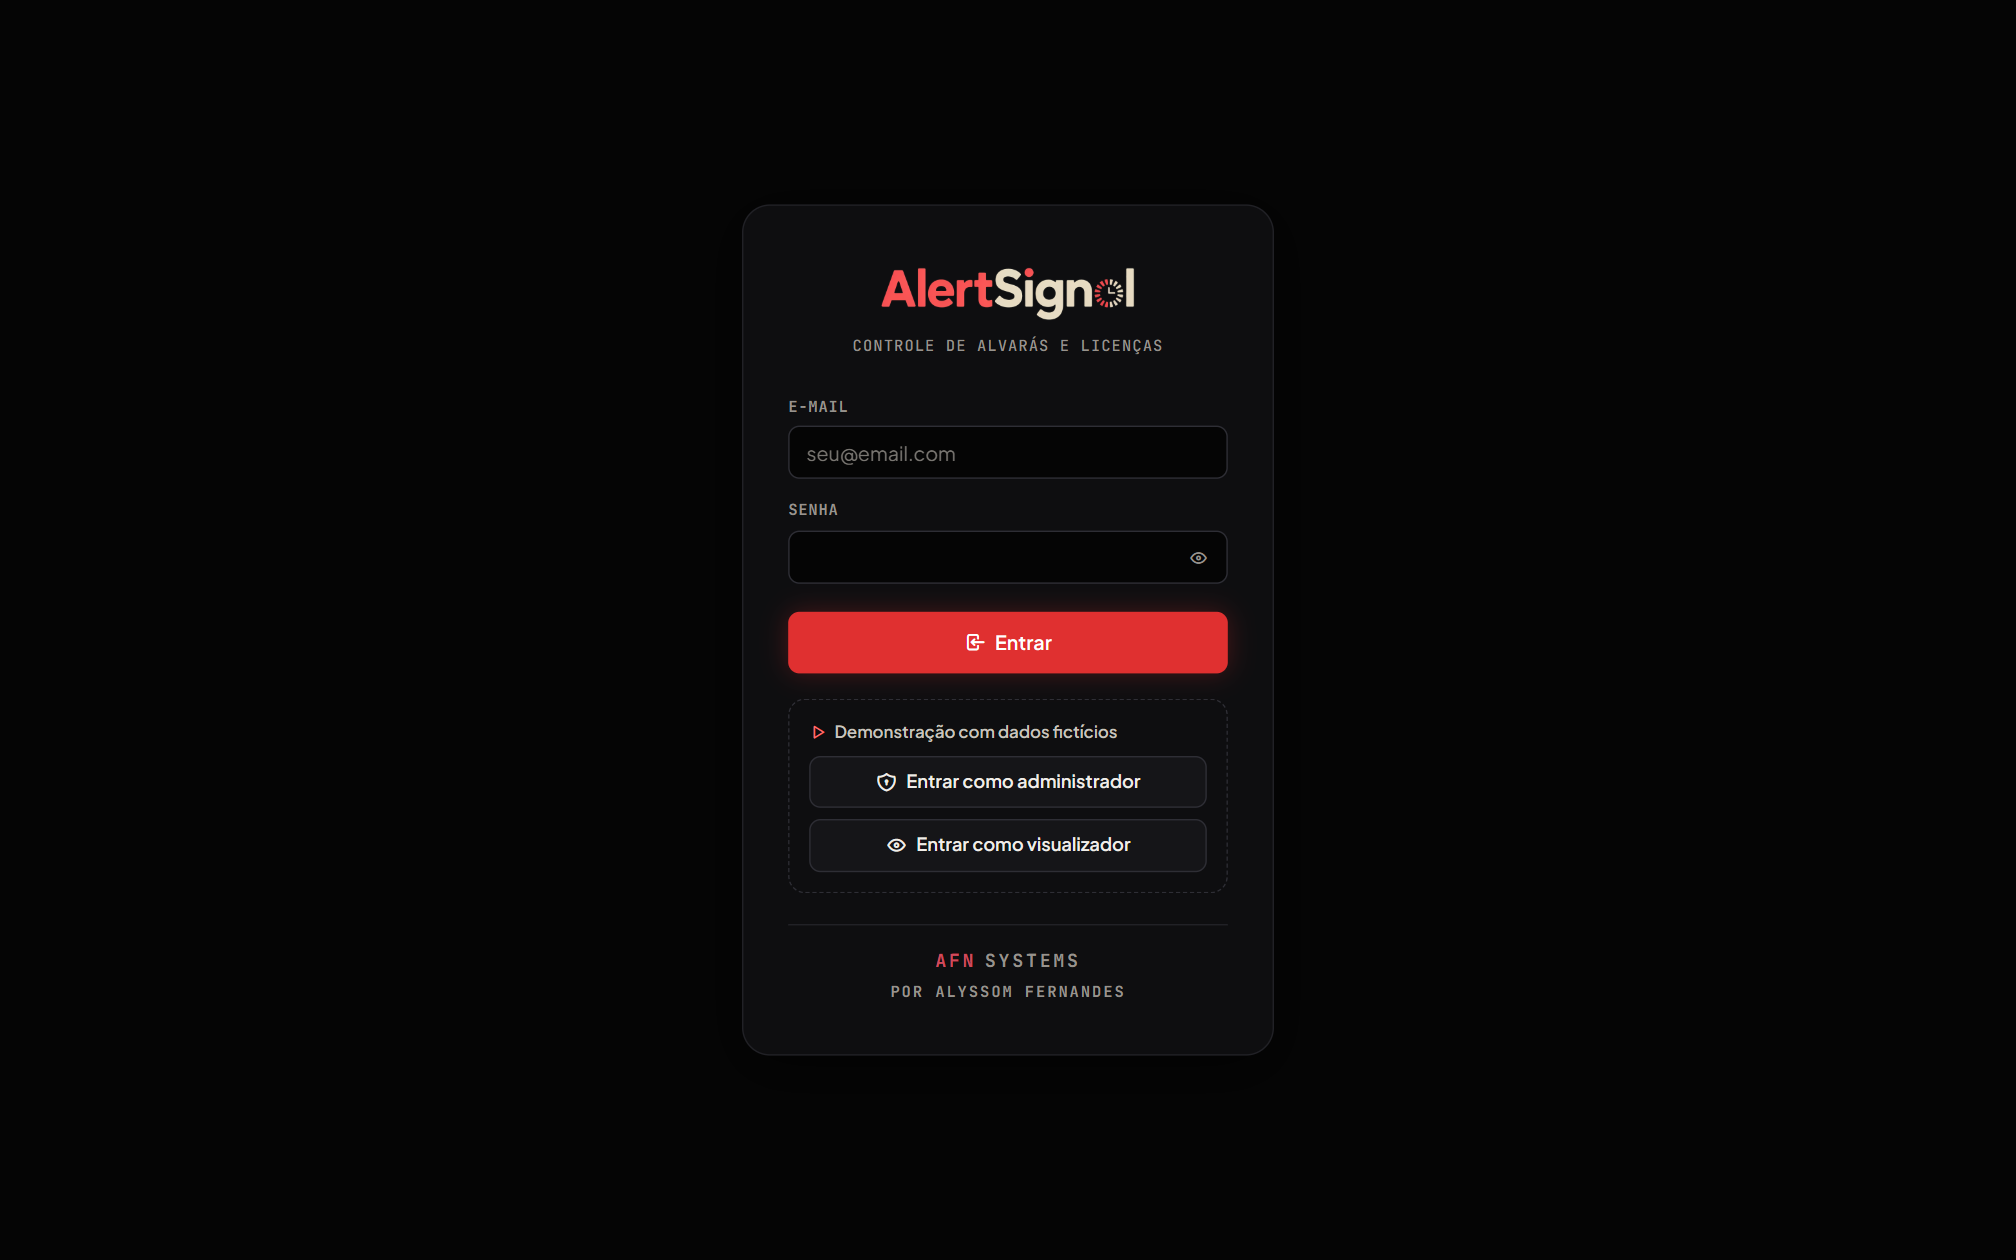
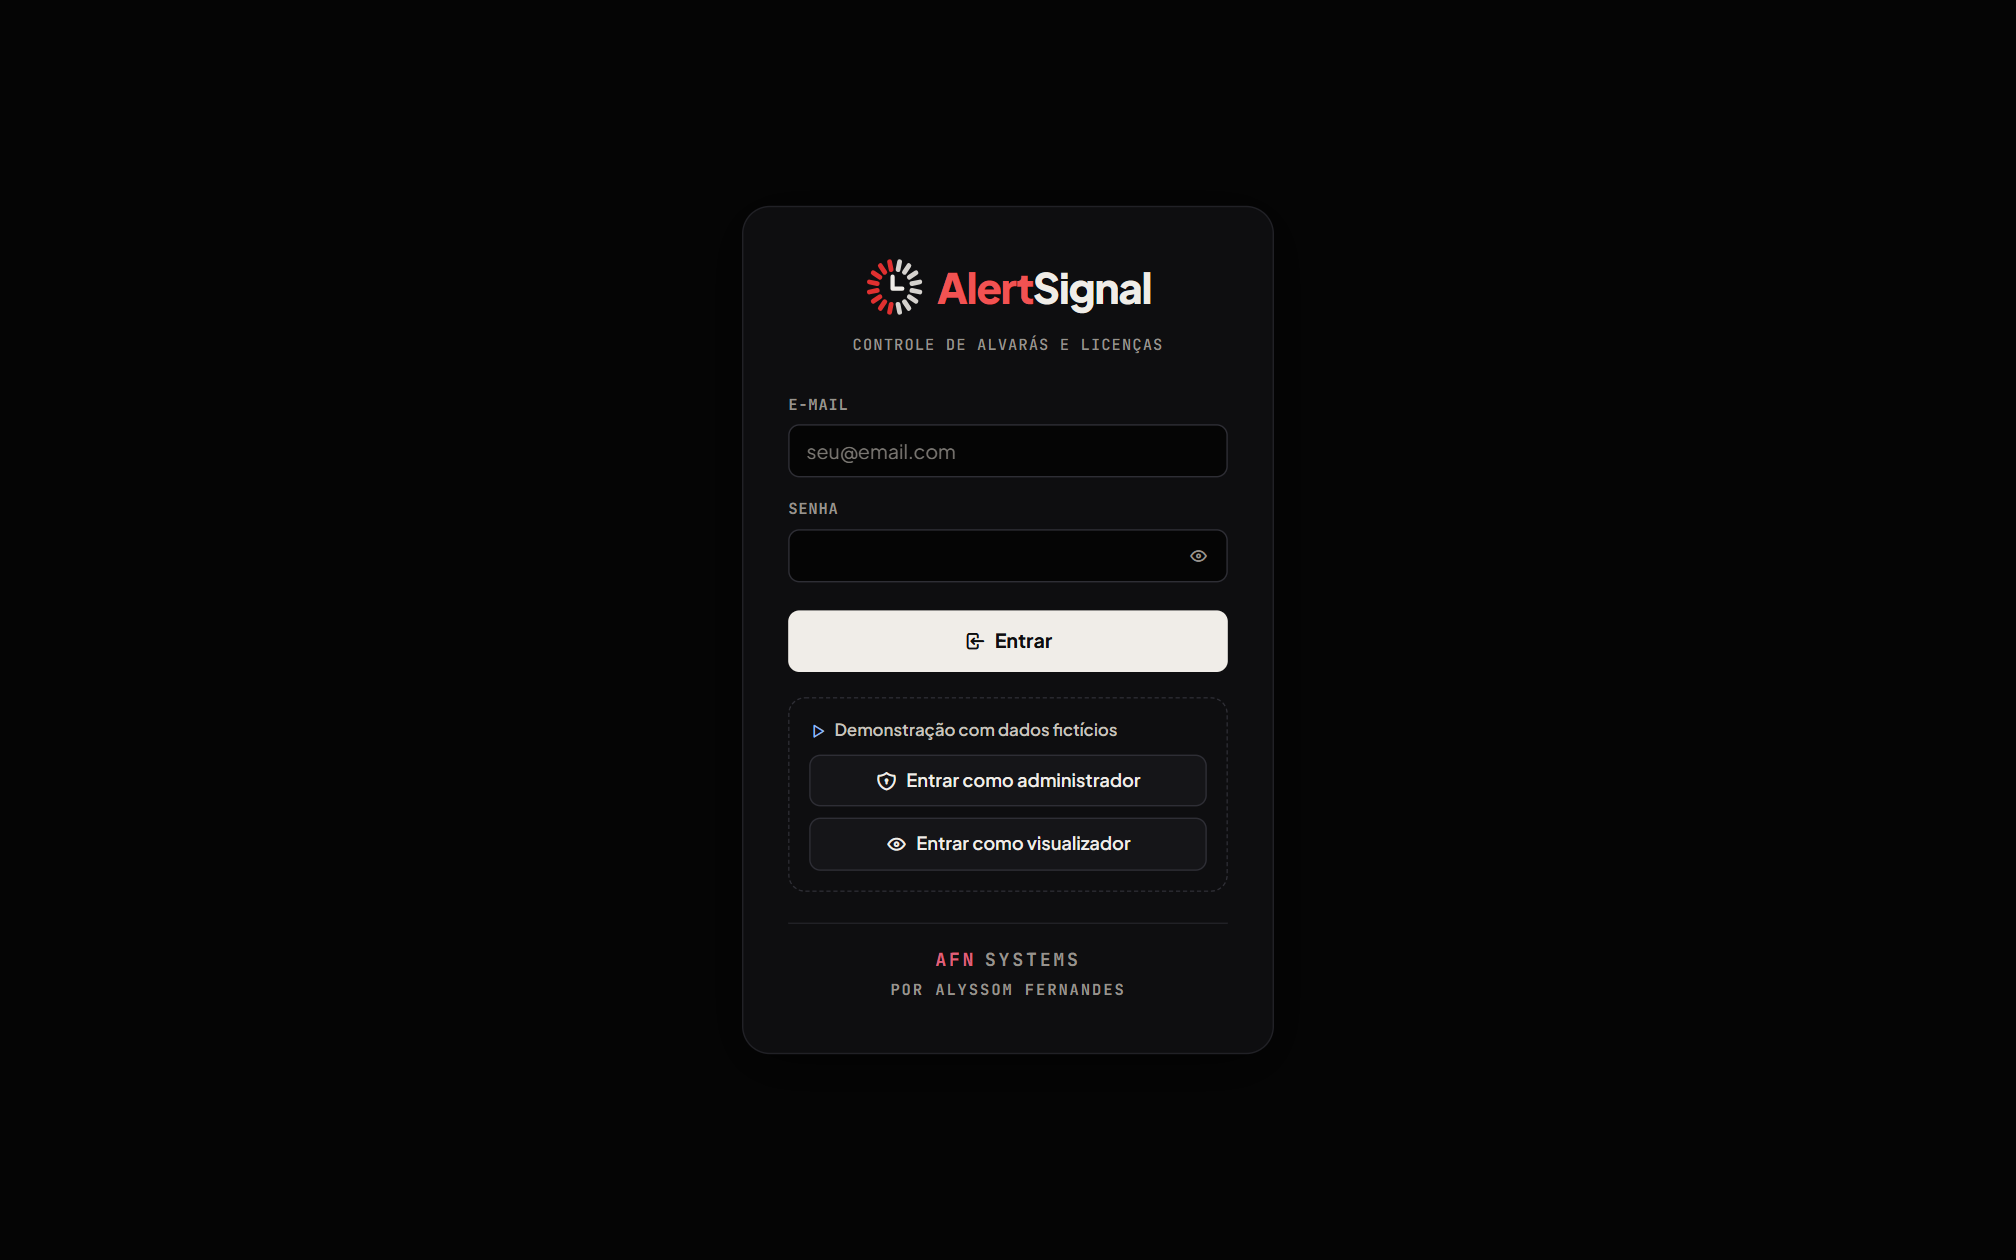
README, telas com a faixa de demonstração e higiene do repositório
- README em inglês e português: uso real sem senha publicada (.env.example,
  ADMIN_EMAIL/ADMIN_SENHA, senha aleatória na primeira execução), porta
  5001 do DEMONSTRACAO.bat explicada, Python 3.11+, HOST, bloqueio de
  entrada, cabeçalhos e exportação protegida, fontes e ícones locais.
- As nove imagens de docs/telas, a capa e a prévia de link foram geradas de
  novo com o visual novo e com a faixa "Demonstração com dados fictícios".
- .gitignore sem a pasta de ferramentas locais e com .idea, .vscode e
  .DS_Store.

diff --git a/README.pt-br.md b/README.pt-br.md
@@ -8,7 +8,7 @@ Ele substituiu uma planilha mantida à mão: roda numa máquina da empresa, sem
 nuvem, e guarda tudo num único arquivo SQLite.
 
 [![Testes](https://github.com/alyssom-fernandes/AlertSignal/actions/workflows/testes.yml/badge.svg)](https://github.com/alyssom-fernandes/AlertSignal/actions/workflows/testes.yml)
-![Python](https://img.shields.io/badge/Python-3.8+-3776AB?style=flat-square&logo=python&logoColor=white)
+![Python](https://img.shields.io/badge/Python-3.11+-3776AB?style=flat-square&logo=python&logoColor=white)
 ![Flask](https://img.shields.io/badge/Flask-3-000000?style=flat-square&logo=flask&logoColor=white)
 ![SQLite](https://img.shields.io/badge/SQLite-embutido-003B57?style=flat-square&logo=sqlite&logoColor=white)
 ![Tema](https://img.shields.io/badge/tema-claro_e_escuro-e03030?style=flat-square)
@@ -23,7 +23,7 @@ Este README também está em [inglês](README.md).
    pip install -r requirements.txt
    python app.py --demo
    ```
-   No Windows, basta dar duplo clique em `DEMONSTRACAO.bat`.
+   No Windows, basta dar duplo clique em `DEMONSTRACAO.bat`: ele abre o navegador sozinho, na porta 5001.
 2. Abra `http://localhost:5000` e clique em **Entrar como administrador**.
 3. Na visão geral, abra um documento em **Atenção urgente**, renove e veja a
    linha mudar de lugar e o histórico registrar quem fez.
@@ -32,7 +32,7 @@ Este README também está em [inglês](README.md).
 
 ## Telas
 
-Capturadas do modo demonstração.
+Capturadas do modo demonstração. A faixa azul no alto de cada tela avisa que os dados são fictícios.
 
 | Visão geral, tema escuro | Página da empresa, tema claro |
 |---|---|
@@ -59,6 +59,7 @@ Capturadas do modo demonstração.
 - **Gráfico dos vencimentos dos próximos 12 meses**, com dica ao passar o mouse e versão em tabela.
 - **Dois níveis de acesso.** Administradores alteram; visualizadores só consultam, e o servidor também bloqueia.
 - **Tema escuro e claro**, que segue o sistema na primeira visita, e layout para celular.
+- **Funciona sem internet.** Fontes e ícones são servidos pelo próprio sistema, sem carregar nada de terceiros.
 - **Modo demonstração** com dados fictícios, num banco separado.
 
 ---
@@ -67,7 +68,7 @@ Capturadas do modo demonstração.
 
 ### Requisitos
 
-- Python 3.8 ou superior
+- Python 3.11 ou superior (os testes rodam no 3.11 e no 3.13)
 
 ### Demonstração (dados fictícios)
 
@@ -76,18 +77,17 @@ pip install -r requirements.txt
 python app.py --demo
 ```
 
-Abra `http://localhost:5000` e use os botões **Entrar como administrador** ou **Entrar como visualizador**. A demonstração grava num `demo.db` separado, recriado a cada início, e não envia nenhum e-mail. No Windows, dá para usar o `DEMONSTRACAO.bat`.
+Abra `http://localhost:5000` e use os botões **Entrar como administrador** ou **Entrar como visualizador**. A demonstração grava num `demo.db` separado, recriado a cada início, e não envia nenhum e-mail. No Windows, o `DEMONSTRACAO.bat` faz o mesmo na porta 5001, para rodar ao lado de uma instalação real na 5000, e abre o navegador sozinho.
 
 ### Uso real
 
-1. Crie um arquivo `.env` na raiz do projeto:
-   ```
-   SECRET_KEY=uma-chave-longa-e-aleatoria
-   ```
+1. Copie o `.env.example` para `.env` e defina uma `SECRET_KEY` longa e aleatória. Se quiser, defina também `ADMIN_EMAIL` e `ADMIN_SENHA` para o primeiro administrador.
 2. Rode `python app.py` (ou dê duplo clique em `INICIAR.bat` no Windows).
-3. Entre com `admin@grupozen.com.br` e a senha `zen2024` e troque a senha em **Meu perfil**.
+3. Na primeira execução, o console mostra o e-mail do administrador e, se `ADMIN_SENHA` não estiver definida, uma senha aleatória que só aparece dessa vez. Entre e troque a senha em **Meu perfil**.
 
-Os dados ficam em `zen.db`, que não vai para o git. Se houver uma planilha `ALVARAS_GRUPO_ZEN.xlsx` na pasta, ela é importada na primeira execução.
+Os dados ficam em `zen.db`, que não vai para o git. Se houver uma planilha `planilha.xlsx` na pasta, ela é importada na primeira execução.
+
+O servidor atende em todas as interfaces de rede, para os outros computadores da empresa abrirem o sistema. Com `HOST=127.0.0.1` no `.env`, ele fica restrito a esta máquina.
 
 > **Atualizando uma instalação feita a partir de um clone antigo:** versões anteriores guardavam o `zen.db` no repositório. Antes do `git pull`, faça uma cópia do `zen.db` e, se o git recusar a atualização por causa dele, restaure a cópia depois do pull. Nunca use `git reset --hard` ou `git checkout -- zen.db` nessa máquina sem a cópia.
 
@@ -97,7 +97,7 @@ Os dados ficam em `zen.db`, que não vai para o git. Se houver uma planilha `ALV
 python -m unittest discover -s tests -v
 ```
 
-Os mesmos testes rodam no GitHub Actions a cada envio. Eles usam o modo demonstração, num banco temporário, e cobrem as páginas, as permissões do visualizador, a proteção contra CSRF, as exportações e o e-mail de alerta.
+Os mesmos testes rodam no GitHub Actions a cada envio. Eles usam o modo demonstração, num banco temporário, e cobrem as páginas, as permissões do visualizador, a proteção contra CSRF, o bloqueio de entrada, os cabeçalhos de segurança, as exportações (inclusive contra fórmulas injetadas na planilha) e o e-mail de alerta.
 
 ---
 
@@ -122,7 +122,7 @@ O AlertSignal envia pelo Gmail com uma senha de app.
 | Agendador | APScheduler |
 | E-mail | smtplib + Gmail (SSL) |
 | Interface | Jinja2, CSS e JavaScript sem framework |
-| Fontes e ícones | Plus Jakarta Sans, JetBrains Mono e Tabler Icons |
+| Fontes e ícones | Plus Jakarta Sans, JetBrains Mono e Tabler Icons, servidos pelo próprio sistema |
 | Planilhas | openpyxl (exportação) e pandas (importação) |
 
 ---
@@ -138,6 +138,8 @@ O AlertSignal envia pelo Gmail com uma senha de app.
 **JavaScript sem framework.** Modais com `<dialog>`, edição na linha, filtros e avisos cabem em poucas funções. O gráfico é feito com HTML e CSS e continua legível no celular.
 
 **Proteção contra CSRF sem dependência.** Um token por sessão vai em todo formulário e em todo `fetch` que altera dados.
+
+**Segurança sem pacotes extras.** Cinco senhas erradas para o mesmo e-mail bloqueiam a entrada por 15 minutos, toda resposta leva cabeçalhos de segurança (CSP, X-Frame-Options, nosniff, Referrer-Policy) e o texto exportado que começa com `=`, `+`, `-` ou `@` continua texto no Excel, em vez de virar fórmula.
 
 ---
 
@@ -155,10 +157,12 @@ alertsignal/
 ├── docs/telas/             # Imagens deste README e da prévia de link
 ├── INICIAR.bat             # Inicia o sistema no Windows
 ├── DEMONSTRACAO.bat        # Inicia a demonstração no Windows
+├── .env.example            # Configurações do uso real (copie para .env)
 ├── static/
 │   ├── css/app.css         # Estilos, temas, celular e impressão
 │   ├── js/app.js           # Modais, confirmações, abas, tema e menu
-│   └── img/                # Logos (versões para tema escuro e claro)
+│   ├── img/                # Imagem da prévia de link
+│   └── vendor/             # Fontes e ícones servidos localmente, com as licenças
 └── templates/              # Páginas Jinja (layout, telas, relatório e erros)
 ```
 
@@ -182,7 +186,8 @@ configuracoes         e-mail, horário e prazos dos alertas
 ## Limitações conhecidas
 
 - A senha de app do Gmail fica em texto no banco. Para uso fora da rede da empresa, o caminho seria cifrar com `cryptography.fernet`.
-- O servidor embutido do Flask atende bem a rede local; para acesso pela internet, o certo é colocar atrás de um servidor como Waitress ou Gunicorn, com HTTPS.
+- O servidor embutido do Flask atende bem a rede local; para acesso pela internet, o certo é colocar atrás de um servidor como Waitress ou Gunicorn, com HTTPS, e definir `ALERTSIGNAL_HTTPS=1` para o cookie de sessão só trafegar por HTTPS.
+- A contagem do bloqueio de entrada fica na memória: reiniciar o servidor a zera.
 
 ---
 

diff --git a/README.md b/README.md
@@ -9,7 +9,7 @@ inside the company, with no cloud, and keeps everything in a single SQLite
 file. The interface is in Brazilian Portuguese.
 
 [![Tests](https://github.com/alyssom-fernandes/AlertSignal/actions/workflows/testes.yml/badge.svg)](https://github.com/alyssom-fernandes/AlertSignal/actions/workflows/testes.yml)
-![Python](https://img.shields.io/badge/Python-3.8+-3776AB?style=flat-square&logo=python&logoColor=white)
+![Python](https://img.shields.io/badge/Python-3.11+-3776AB?style=flat-square&logo=python&logoColor=white)
 ![Flask](https://img.shields.io/badge/Flask-3-000000?style=flat-square&logo=flask&logoColor=white)
 ![SQLite](https://img.shields.io/badge/SQLite-embedded-003B57?style=flat-square&logo=sqlite&logoColor=white)
 ![Theme](https://img.shields.io/badge/theme-light_and_dark-e03030?style=flat-square)
@@ -24,7 +24,7 @@ This README is also available in [Portuguese](README.pt-br.md).
    pip install -r requirements.txt
    python app.py --demo
    ```
-   On Windows, just double-click `DEMONSTRACAO.bat`.
+   On Windows, just double-click `DEMONSTRACAO.bat`: it opens the browser by itself, on port 5001.
 2. Open `http://localhost:5000` and click **Entrar como administrador** (sign in as admin).
 3. On the overview, open a document under **Atenção urgente**, renew it, and
    watch the row move and the history record who did it.
@@ -33,7 +33,7 @@ This README is also available in [Portuguese](README.pt-br.md).
 
 ## Screens
 
-Captured from demo mode.
+Captured from demo mode. The blue bar at the top of each screen says the data is fictitious.
 
 | Overview, dark theme | Company page, light theme |
 |---|---|
@@ -60,6 +60,7 @@ Captured from demo mode.
 - **Chart of expirations over the next 12 months**, with hover details and a table view.
 - **Two access levels.** Admins can change data; viewers can only look, enforced on the server too.
 - **Dark and light themes**, following the system on the first visit, and a phone layout.
+- **Works without internet.** Fonts and icons are served by the app itself, so nothing is loaded from third parties.
 - **Demo mode** with fictitious data in a separate database.
 
 ---
@@ -68,7 +69,7 @@ Captured from demo mode.
 
 ### Requirements
 
-- Python 3.8 or later
+- Python 3.11 or later (the tests run on 3.11 and 3.13)
 
 ### Demo (fictitious data)
 
@@ -77,18 +78,17 @@ pip install -r requirements.txt
 python app.py --demo
 ```
 
-Open `http://localhost:5000` and use **Entrar como administrador** (admin) or **Entrar como visualizador** (viewer). The demo writes to a separate `demo.db`, rebuilt on every start, and never sends email. On Windows, `DEMONSTRACAO.bat` does the same.
+Open `http://localhost:5000` and use **Entrar como administrador** (admin) or **Entrar como visualizador** (viewer). The demo writes to a separate `demo.db`, rebuilt on every start, and never sends email. On Windows, `DEMONSTRACAO.bat` does the same on port 5001, so it can run next to a real install on 5000, and opens the browser by itself.
 
 ### Real use
 
-1. Create a `.env` file in the project root:
-   ```
-   SECRET_KEY=a-long-random-key
-   ```
+1. Copy `.env.example` to `.env` and set a long random `SECRET_KEY`. Optionally, set `ADMIN_EMAIL` and `ADMIN_SENHA` for the first administrator.
 2. Run `python app.py` (or double-click `INICIAR.bat` on Windows).
-3. Sign in with `admin@grupozen.com.br` and password `zen2024`, then change the password under **Meu perfil**.
+3. On the first run, the console shows the administrator's email and, unless `ADMIN_SENHA` is set, a random password that is shown only once. Sign in and change it under **Meu perfil**.
 
-Data lives in `zen.db`, which is not committed. If an `ALVARAS_GRUPO_ZEN.xlsx` spreadsheet is in the folder, it is imported on the first run.
+Data lives in `zen.db`, which is not committed. If a `planilha.xlsx` spreadsheet is in the folder, it is imported on the first run.
+
+The server listens on every network interface, so other computers on the company network can open it. Set `HOST=127.0.0.1` in `.env` to keep it on this machine only.
 
 > **Upgrading an install that runs from an old clone:** earlier versions kept `zen.db` in the repository. Back up `zen.db` before `git pull`, and if git refuses to update because of it, restore the backup after the pull. Never run `git reset --hard` or `git checkout -- zen.db` on that machine without the backup.
 
@@ -98,7 +98,7 @@ Data lives in `zen.db`, which is not committed. If an `ALVARAS_GRUPO_ZEN.xlsx` s
 python -m unittest discover -s tests -v
 ```
 
-The same tests run on GitHub Actions on every push. They use demo mode on a temporary database and cover the pages, viewer permissions, CSRF protection, exports and the alert email.
+The same tests run on GitHub Actions on every push. They use demo mode on a temporary database and cover the pages, viewer permissions, CSRF protection, the sign-in lockout, security headers, exports (including spreadsheet formula injection) and the alert email.
 
 ---
 
@@ -123,7 +123,7 @@ AlertSignal sends through Gmail with an App Password.
 | Scheduler | APScheduler |
 | Email | smtplib + Gmail (SSL) |
 | Interface | Jinja2, CSS and plain JavaScript |
-| Fonts and icons | Plus Jakarta Sans, JetBrains Mono and Tabler Icons |
+| Fonts and icons | Plus Jakarta Sans, JetBrains Mono and Tabler Icons, served by the app |
 | Spreadsheets | openpyxl (export) and pandas (import) |
 
 ---
@@ -139,6 +139,8 @@ AlertSignal sends through Gmail with an App Password.
 **No front-end framework.** Modals use `<dialog>`; inline editing, filters and notices fit in a few functions. The chart is built with HTML and CSS and stays readable on a phone.
 
 **CSRF protection without a dependency.** A per-session token goes into every form and every data-changing `fetch`.
+
+**Security without extra packages.** Five wrong passwords for the same email lock sign-in for 15 minutes, every response carries security headers (CSP, X-Frame-Options, nosniff, Referrer-Policy), and exported text that starts with `=`, `+`, `-` or `@` stays text in Excel instead of becoming a formula.
 
 ---
 
@@ -156,10 +158,12 @@ alertsignal/
 ├── docs/telas/             # Images for this README and the link preview
 ├── INICIAR.bat             # Starts the app on Windows
 ├── DEMONSTRACAO.bat        # Starts the demo on Windows
+├── .env.example            # Settings for real use (copy to .env)
 ├── static/
 │   ├── css/app.css         # Styles, themes, phone layout and print
 │   ├── js/app.js           # Modals, confirmations, tabs, theme and menu
-│   └── img/                # Logos (dark and light theme versions)
+│   ├── img/                # Link preview image
+│   └── vendor/             # Fonts and icons served locally, with their licenses
 └── templates/              # Jinja pages (layout, screens, report and errors)
 ```
 
@@ -183,7 +187,8 @@ configuracoes         email, send time and alert thresholds
 ## Known limitations
 
 - The Gmail App Password is stored as plain text in the database. For use outside the company network, it should be encrypted with `cryptography.fernet`.
-- Flask's built-in server is fine on a local network; for internet access, put the app behind a server such as Waitress or Gunicorn, with HTTPS.
+- Flask's built-in server is fine on a local network; for internet access, put the app behind a server such as Waitress or Gunicorn, with HTTPS, and set `ALERTSIGNAL_HTTPS=1` so the session cookie only travels over HTTPS.
+- The sign-in lockout counter lives in memory: restarting the server clears it.
 
 ---
 
